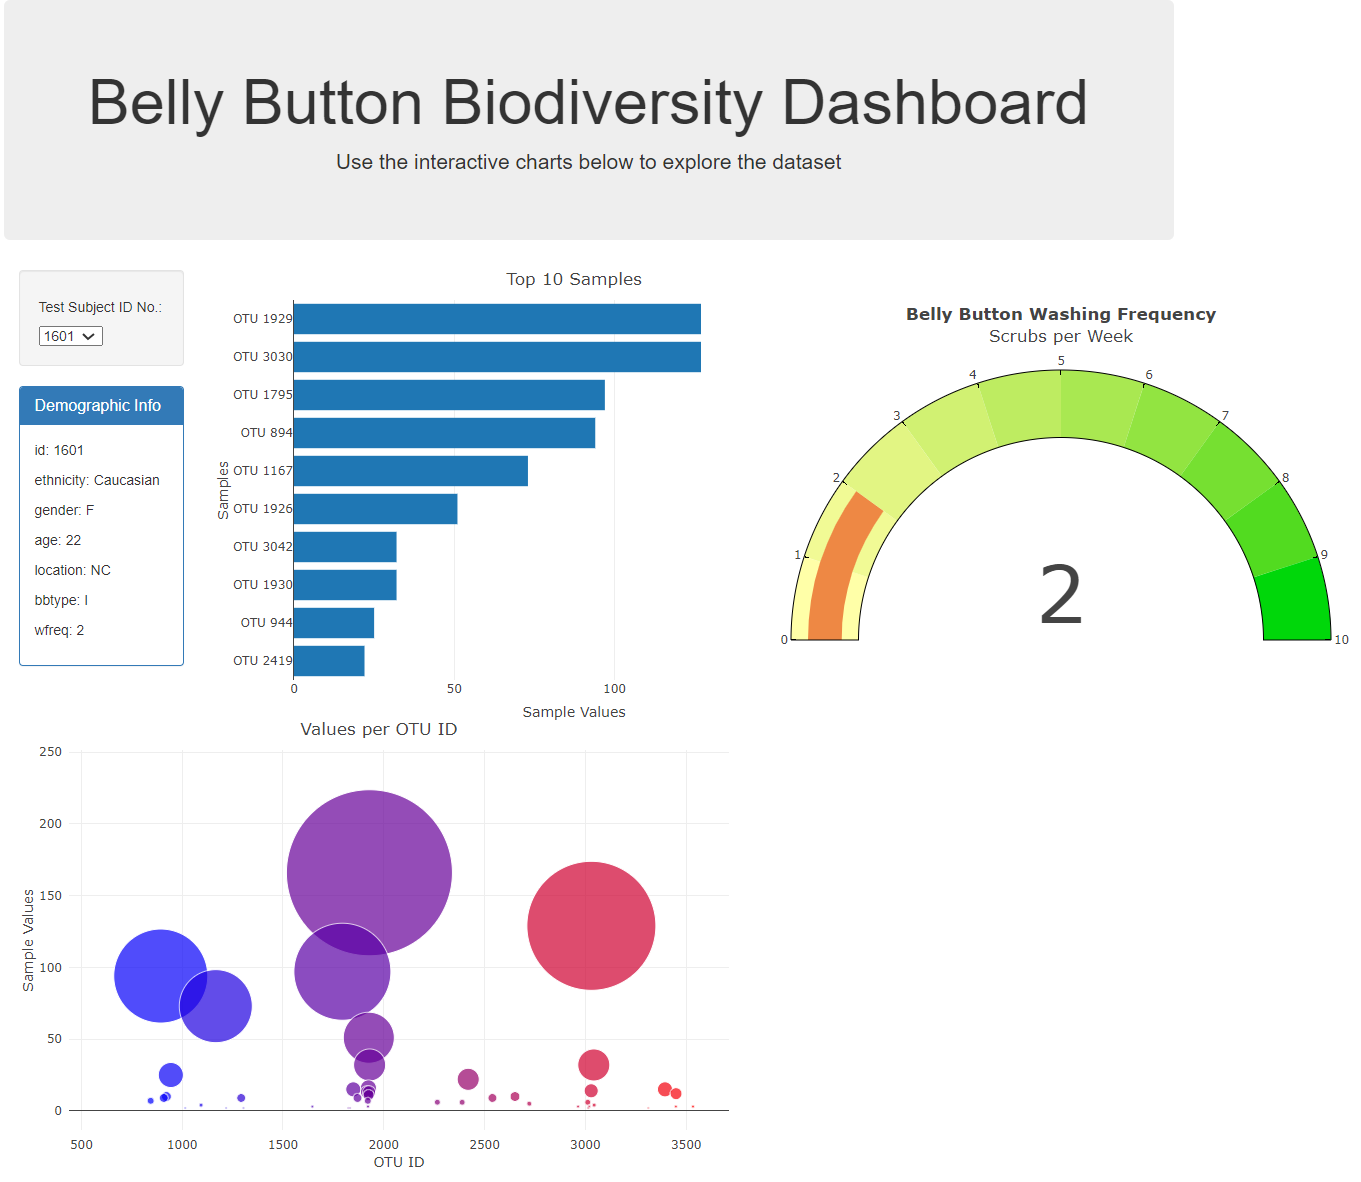
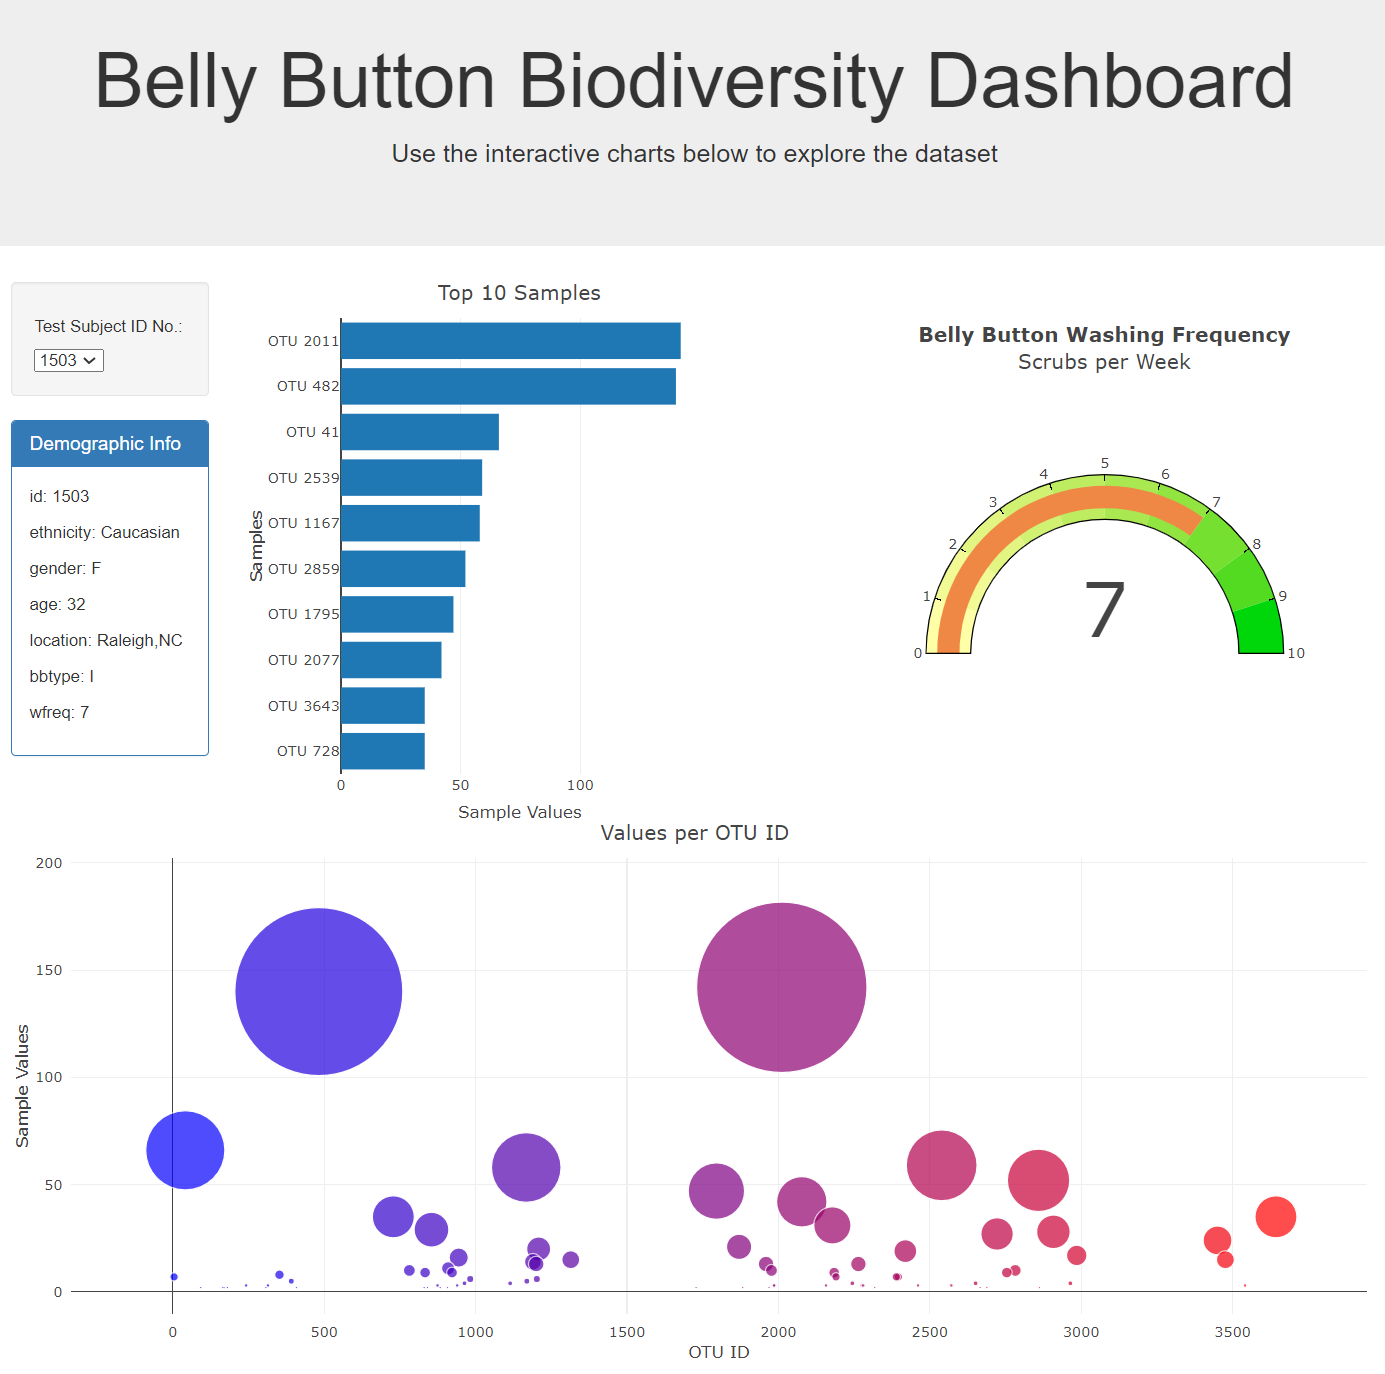
update README and preview image

diff --git a/README.md b/README.md
@@ -1,3 +1,25 @@
 # Challenge 14 - JavaScript, D3, Plotly
 
+This challenge demonstrates the usage of JavaScript to display data on a interactive dashboard. The JSON data is read from an external site using `D3`. The drop down is populated and the three charts are created with `Plotly`. When a new option from the drop down is selected, the charts will update.
+
+---
+
+- [Copy of the json data](data/samples.json)
+- [app.js source file](static/js/app.js)
+
+There is a drop down box where a user can select the ID of a test subject to see different graphs displaying the associated data, along with some information about the test subject.
+
+There are three graphs:
+1. Bar Chart
+    - Shows the top 10 (or all available if less) OTU Samples and their values.
+    - Hover over to see the exact value and taxa of the sample.
+2. Bubble Chart
+    - Shows all OTUs with the bubble being scaled by Sample Values
+    - Hover over to see the exact value and taxa of the sample.
+3. Gauge Chart
+    - Shows a gauge of Belly Button Washing per Week for the selected test subject.
+
+The website can be accessed at this link: [https://zachaa.github.io/belly-button-challenge/](https://zachaa.github.io/belly-button-challenge/)
+
+## Website Preview
 ![Website Preview](images/website.png)
